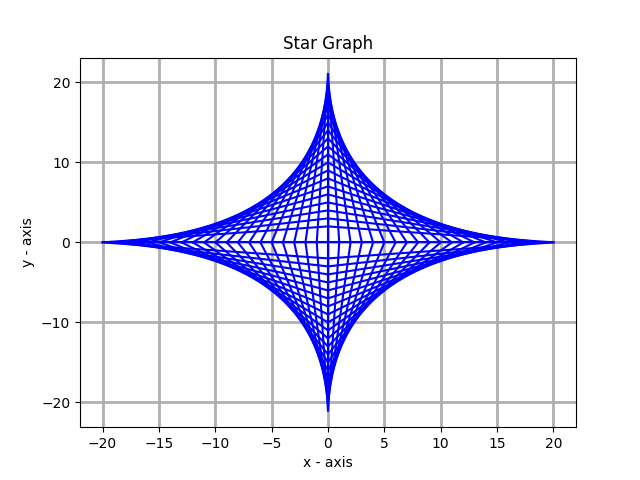
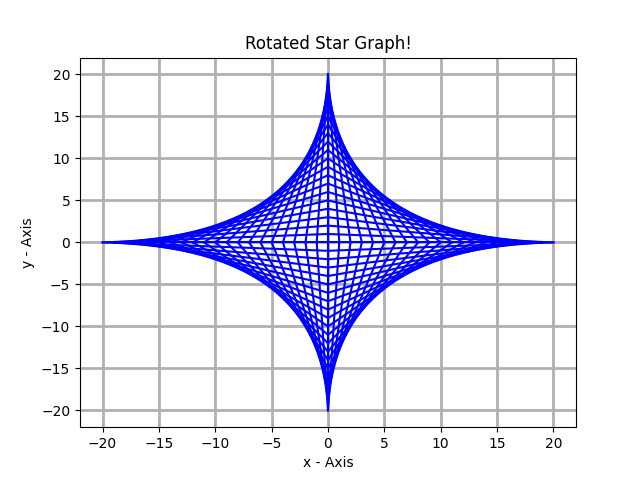
Add files via upload

diff --git a/Star_Graphs.py b/Star_Graphs.py
@@ -1,0 +1,64 @@
+import matplotlib.pyplot as plt
+import numpy as np
+
+StarFlag = 1
+RotatedFlag = 0
+
+x = ()
+y = ()
+MaxLength = 20
+
+#Star Graph----------------------------------------------------------------
+if StarFlag == 1:
+    for i in range(1,MaxLength+1):
+    
+        Quad1XValues = [i, 0]
+        Quad1YValues = [0, (MaxLength-(i-1))]
+        Quad2XValues = [-i, 0]
+        Quad2YValues = [0, MaxLength-(i-1)]
+        Quad3XValues = [-i, 0]
+        Quad3YValues = [0, -MaxLength+(i-1)]
+        Quad4XValues = [i, 0]
+        Quad4YValues = [0, -MaxLength+(i-1)]
+
+        plt.plot(Quad1XValues, Quad1YValues, 'b')
+        plt.plot(Quad2XValues, Quad2YValues, 'b')
+        plt.plot(Quad3XValues, Quad3YValues, 'b')
+        plt.plot(Quad4XValues, Quad4YValues, 'b')
+
+    #Origin Lines (Star Graph)
+    plt.plot([-MaxLength+1, MaxLength-1],[0,0], 'b')
+    plt.plot([0, 0],[-MaxLength, MaxLength], 'b')
+
+#45 Rotated Star Graph--------------------------------------------------------
+if RotatedFlag == 1:
+    for i in range(1,MaxLength+1):
+        Quad1XValues = [i, MaxLength-(i-1)]
+        Quad1YValues = [i, -MaxLength+(i-1)]
+        Quad2XValues = [i, -MaxLength+(i-1)]
+        Quad2YValues = [-i, -MaxLength+(i-1)]
+        Quad3XValues = [-i, -MaxLength+(i-1)]
+        Quad3YValues = [-i, MaxLength-(i-1)]
+        Quad4XValues = [-i, MaxLength-(i-1)]
+        Quad4YValues = [i, MaxLength-(i-1)]
+
+        plt.plot(Quad1XValues, Quad1YValues, 'g')
+        plt.plot(Quad2XValues, Quad2YValues, 'g')
+        plt.plot(Quad3XValues, Quad3YValues, 'g')
+        plt.plot(Quad4XValues, Quad4YValues, 'g')
+
+    #Origin Lines (45 Rotated Star Graph)
+    plt.plot([-MaxLength, MaxLength],[-MaxLength, MaxLength], 'g')
+    plt.plot([-MaxLength, MaxLength],[MaxLength, -MaxLength], 'g')
+
+#--------------------------------------------------------------------------------
+# naming the x axis
+plt.xlabel('x - Axis')
+# naming the y axis
+plt.ylabel('y - Axis')
+ 
+# giving a title to my graph
+plt.title('Rotated Star Graph!')
+plt.grid(linewidth=2)
+# function to show the plot
+plt.show()
